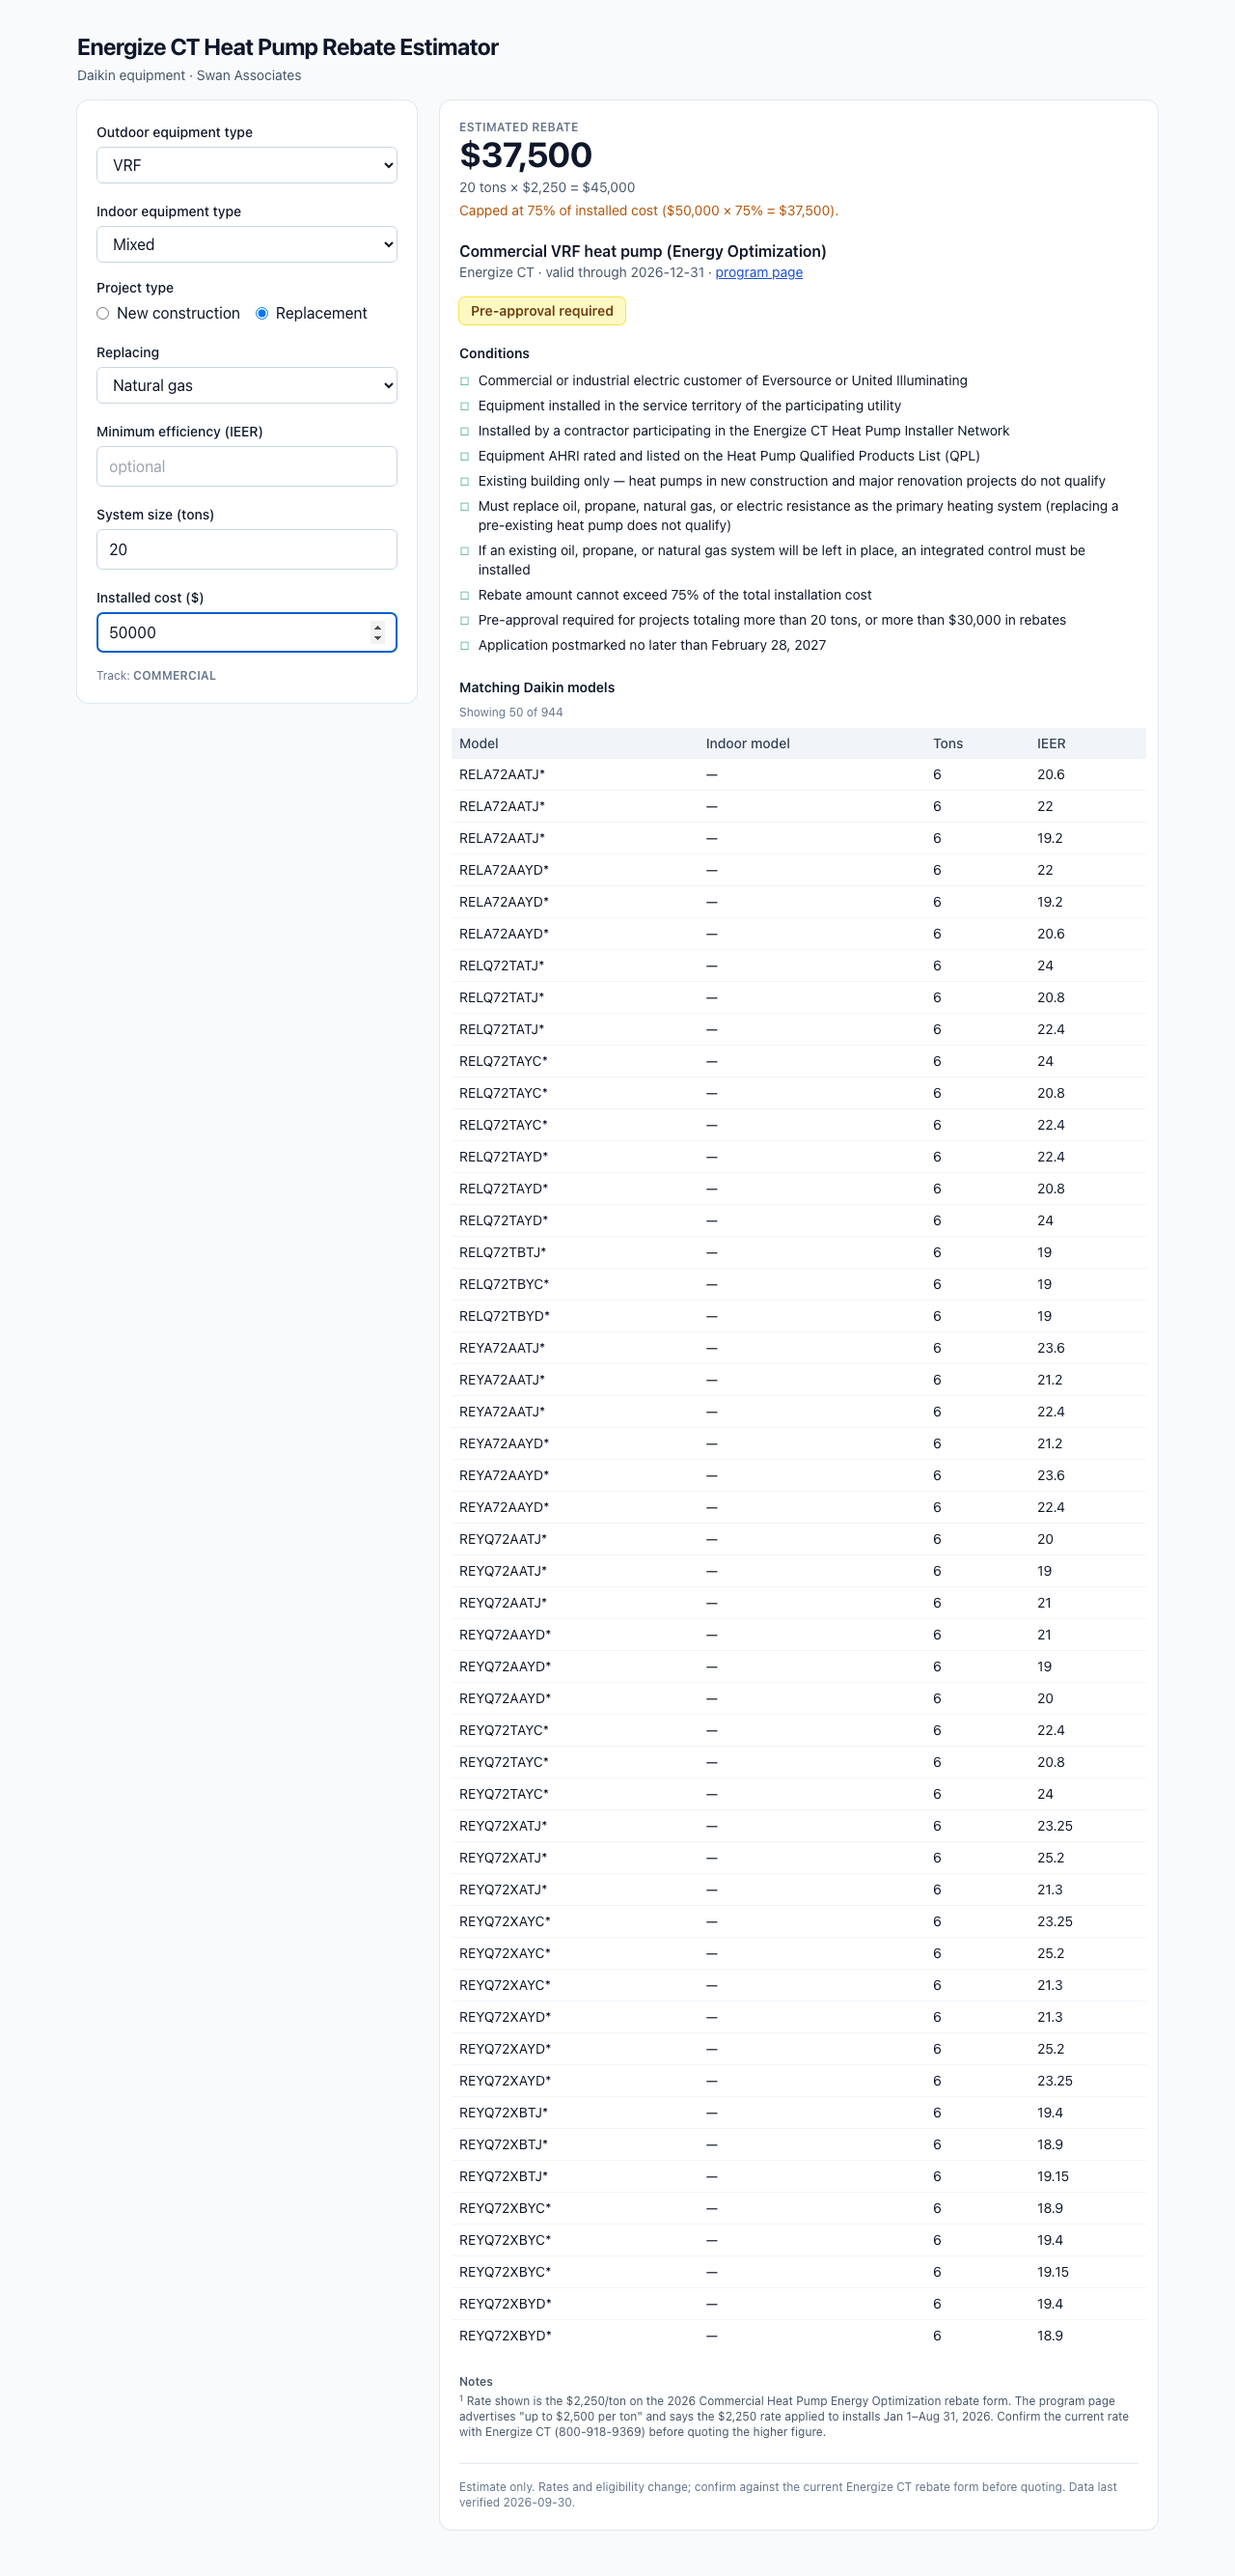
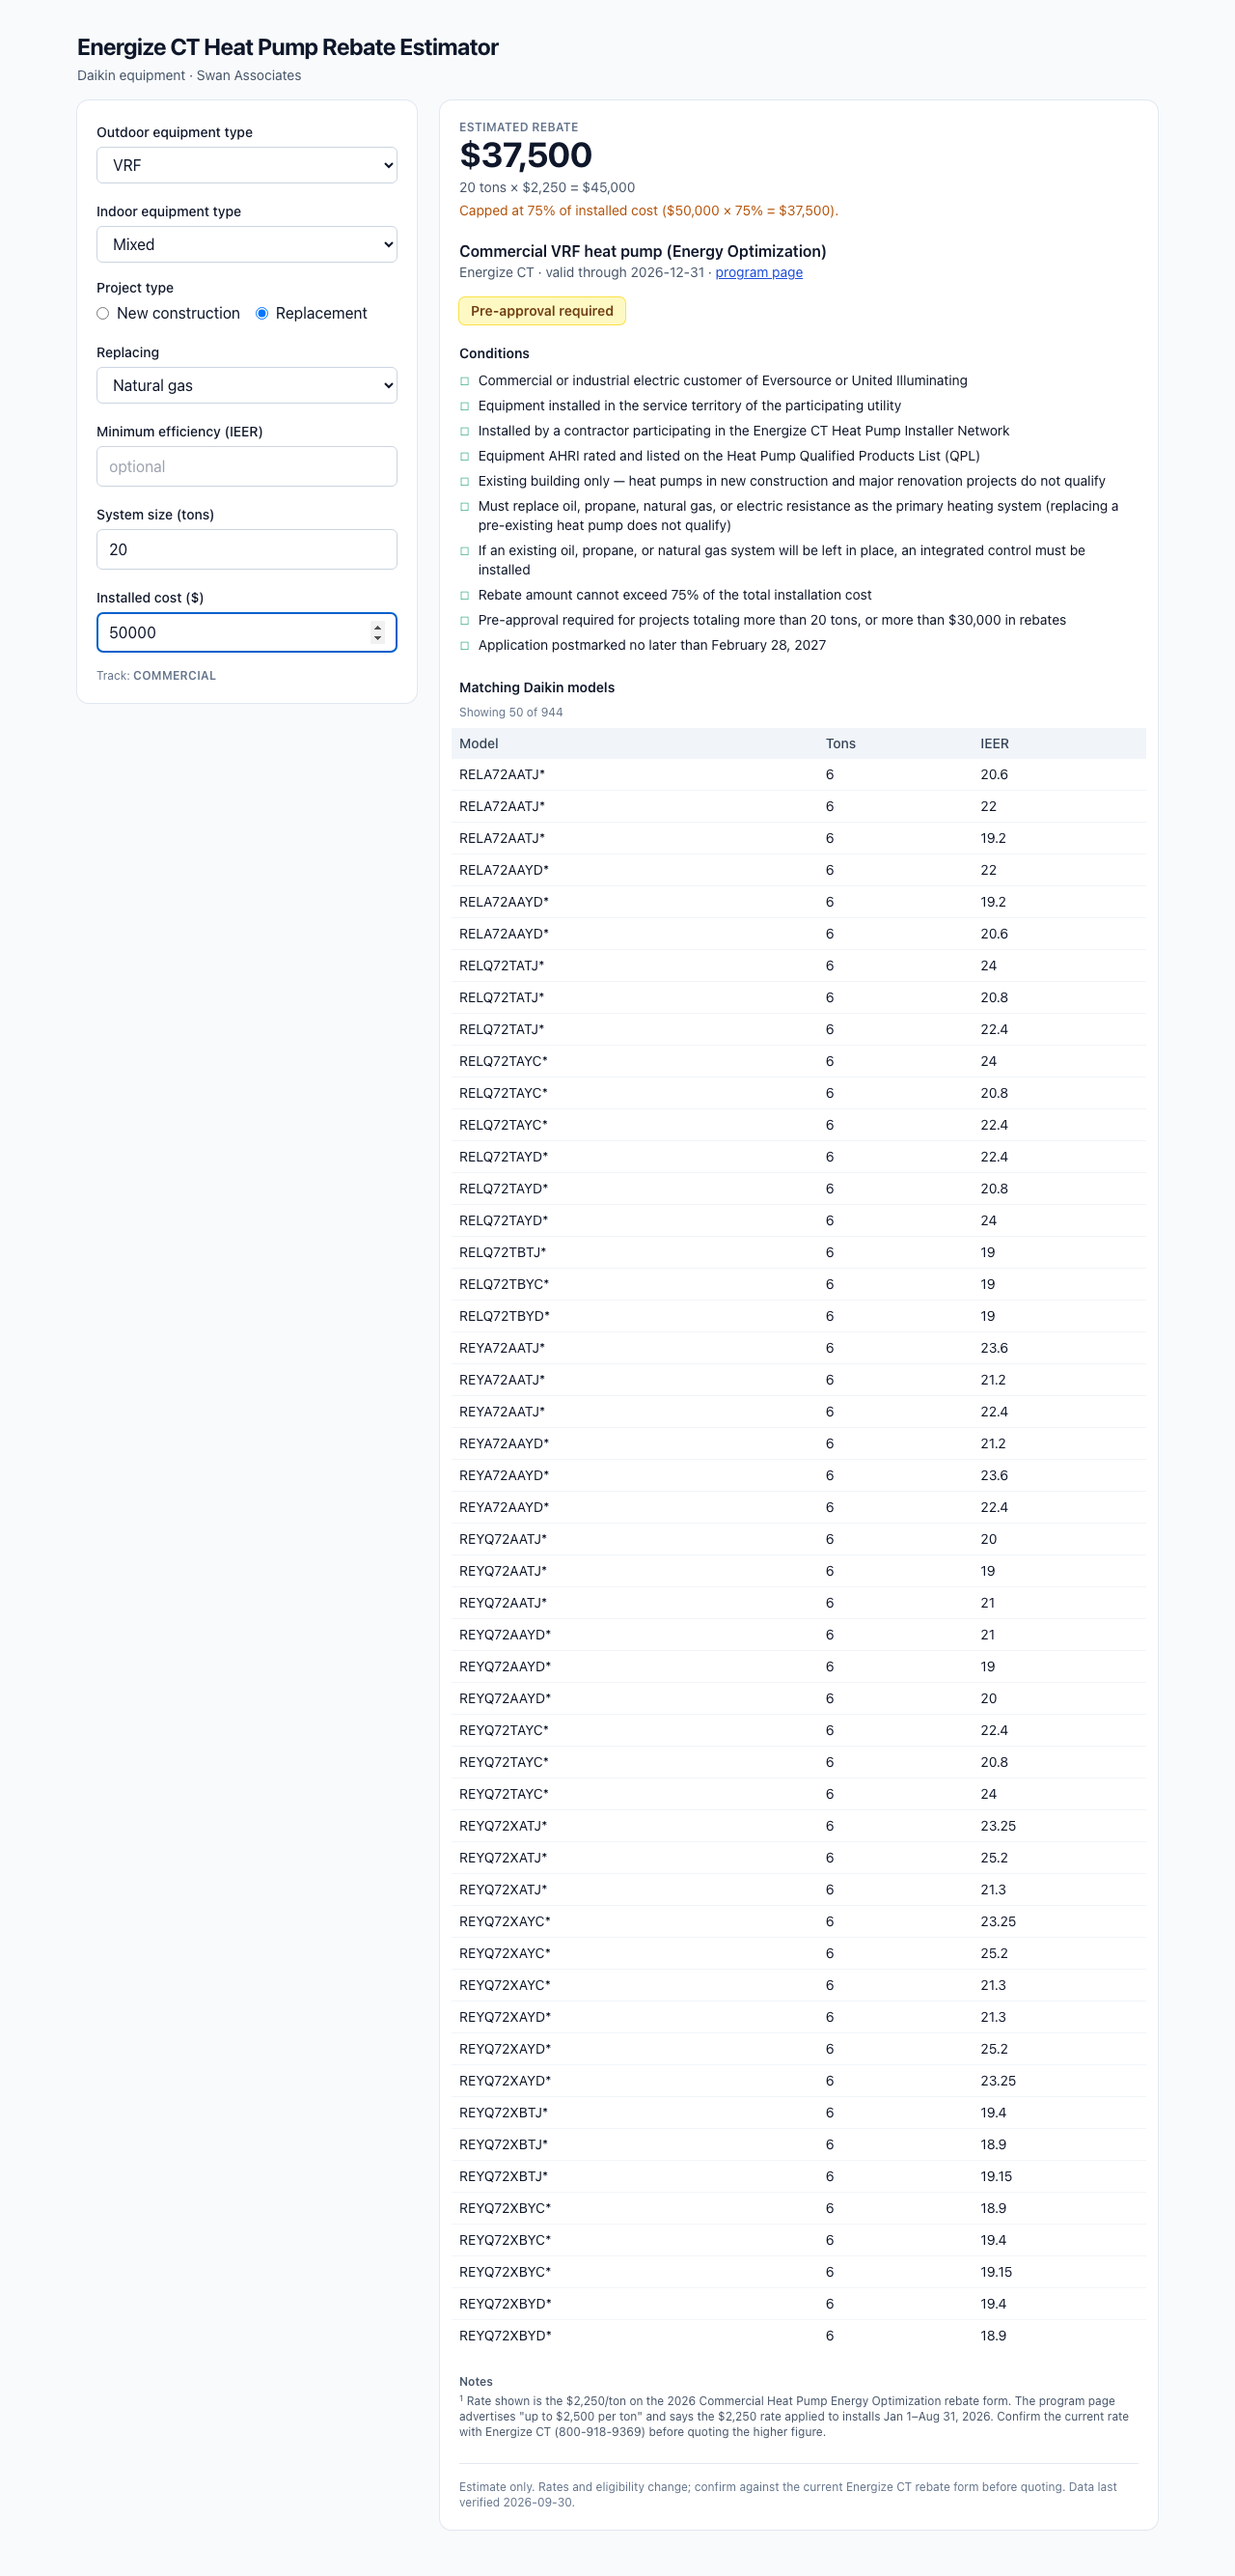
Remove indoor model column from results table

diff --git a/index.html b/index.html
@@ -3248,9 +3248,9 @@ function modelsTable(models) {
     ${sorted.length > 50 ? `<p class="text-xs text-slate-500 mb-2">Showing 50 of ${sorted.length.toLocaleString()}</p>` : `<p class="text-xs text-slate-500 mb-2">${sorted.length} model${sorted.length === 1 ? "" : "s"}</p>`}
     <div class="overflow-x-auto -mx-2">
       <table class="text-sm w-full">
-        <thead class="bg-slate-100 text-slate-700"><tr>${th("Model")}${th("Indoor model")}${th("Tons")}${cols.map(([, l]) => th(l)).join("")}</tr></thead>
+        <thead class="bg-slate-100 text-slate-700"><tr>${th("Model")}${th("Tons")}${cols.map(([, l]) => th(l)).join("")}</tr></thead>
         <tbody class="divide-y divide-slate-100">
-          ${shown.map((m) => `<tr>${td(m.model)}${td(m.indoorModel)}${td(m.tons)}${cols.map(([k]) => td(m[k])).join("")}</tr>`).join("")}
+          ${shown.map((m) => `<tr>${td(m.model)}${td(m.tons)}${cols.map(([k]) => td(m[k])).join("")}</tr>`).join("")}
         </tbody>
       </table>
     </div>`;
